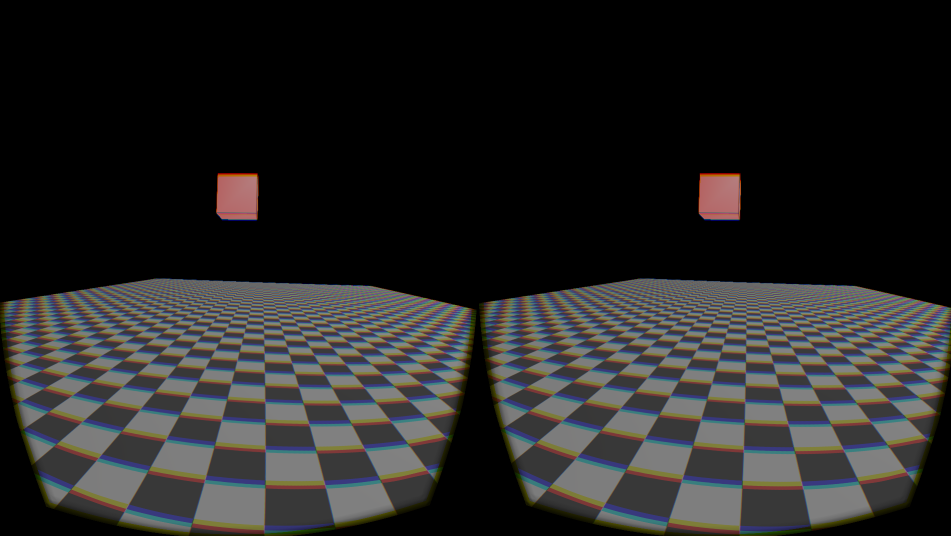
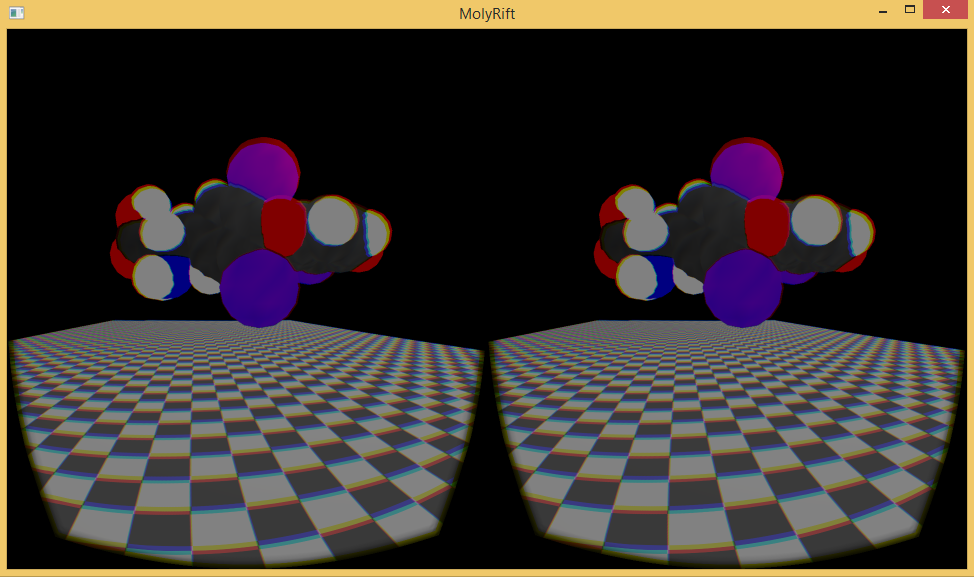
added functionality to read pdb files

diff --git a/Win32_DX11AppUtil.h b/Win32_DX11AppUtil.h
@@ -25,12 +25,19 @@ limitations under the License.
 #include <math.h>
 using namespace OVR;
 
-// for debugging
+
 #include <iostream>
 #include <windows.h>
 #include <string>
+#include <vector>
+#include <sstream>
+#include <fstream>
+#include <hash_map>
 
 //---------------------------------------------------------------------
+
+
+
 struct DirectX11
 {
     HWND                     Window;
@@ -281,7 +288,7 @@ struct Model
         float     U, V;
     };
 
-	static const int          maxSize = 20000;
+	static const int          maxSize = 100000;
     Vector3f     Pos;
     Quatf        Rot;
     Matrix4f     Mat;
@@ -382,8 +389,6 @@ struct Model
 
 		// the direction of the bond
 		Vector3f rotation = Vector3f(x1, y1, z1).Cross(Vector3f(x2, y2, z2));
-		std::string s = "\nVinkel: " + std::to_string(rotation.Angle(Vector3f(1,1,1)));
-		OutputDebugStringA(s.c_str());
 		rotation.Normalize();
 
 		for (uint16_t i = 0; i < resolution; i++){
@@ -435,48 +440,101 @@ struct Scene
     void    Add(Model * n)
     { Models[num_models++] = n; }    
 
-    Scene(int reducedVersion) : num_models(0) // Main world
-    {
-        D3D11_INPUT_ELEMENT_DESC ModelVertexDesc[] =
-        {   {"Position", 0, DXGI_FORMAT_R32G32B32_FLOAT, 0, offsetof(Model::Vertex, Pos),   D3D11_INPUT_PER_VERTEX_DATA, 0},
-            {"Color",    0, DXGI_FORMAT_R8G8B8A8_UNORM,  0, offsetof(Model::Vertex, C),     D3D11_INPUT_PER_VERTEX_DATA, 0},
-            {"TexCoord", 0, DXGI_FORMAT_R32G32_FLOAT,    0, offsetof(Model::Vertex, U),     D3D11_INPUT_PER_VERTEX_DATA, 0},    };
+	Scene(int reducedVersion) : num_models(0) // Main world
+	{
+		D3D11_INPUT_ELEMENT_DESC ModelVertexDesc[] =
+		{ { "Position", 0, DXGI_FORMAT_R32G32B32_FLOAT, 0, offsetof(Model::Vertex, Pos), D3D11_INPUT_PER_VERTEX_DATA, 0 },
+		{ "Color", 0, DXGI_FORMAT_R8G8B8A8_UNORM, 0, offsetof(Model::Vertex, C), D3D11_INPUT_PER_VERTEX_DATA, 0 },
+		{ "TexCoord", 0, DXGI_FORMAT_R32G32_FLOAT, 0, offsetof(Model::Vertex, U), D3D11_INPUT_PER_VERTEX_DATA, 0 }, };
 
-        char* VertexShaderSrc =
-            "float4x4 Proj, View;"
-            "float4 NewCol;"
-            "void main(in  float4 Position  : POSITION,    in  float4 Color : COLOR0, in  float2 TexCoord  : TEXCOORD0,"
-            "          out float4 oPosition : SV_Position, out float4 oColor: COLOR0, out float2 oTexCoord : TEXCOORD0)"
-            "{   oPosition = mul(Proj, mul(View, Position)); oTexCoord = TexCoord; oColor = Color; }";
-        char* PixelShaderSrc =
-            "Texture2D Texture   : register(t0); SamplerState Linear : register(s0); "
-            "float4 main(in float4 Position : SV_Position, in float4 Color: COLOR0, in float2 TexCoord : TEXCOORD0) : SV_Target"
-            "{   return Color * Texture.Sample(Linear, TexCoord); }";
- 
-        // Construct textures
-        static Model::Color tex_pixels[4][256*256];
-        ShaderFill * generated_texture[4];
+		char* VertexShaderSrc =
+			"float4x4 Proj, View;"
+			"float4 NewCol;"
+			"void main(in  float4 Position  : POSITION,    in  float4 Color : COLOR0, in  float2 TexCoord  : TEXCOORD0,"
+			"          out float4 oPosition : SV_Position, out float4 oColor: COLOR0, out float2 oTexCoord : TEXCOORD0)"
+			"{   oPosition = mul(Proj, mul(View, Position)); oTexCoord = TexCoord; oColor = Color; }";
+		char* PixelShaderSrc =
+			"Texture2D Texture   : register(t0); SamplerState Linear : register(s0); "
+			"float4 main(in float4 Position : SV_Position, in float4 Color: COLOR0, in float2 TexCoord : TEXCOORD0) : SV_Target"
+			"{   return Color * Texture.Sample(Linear, TexCoord); }";
 
-        for (int k=0;k<4;k++)
-        {
-            for (int j = 0; j < 256; j++)
-            for (int i = 0; i < 256; i++)
-            {
-                if (k==0) tex_pixels[0][j*256+i] = (((i >> 7) ^ (j >> 7)) & 1) ? Model::Color(180,180,180,255) : Model::Color(80,80,80,255);// floor
-                if (k==1) tex_pixels[1][j*256+i] = (((j/4 & 15) == 0) || (((i/4 & 15) == 0) && ((((i/4 & 31) == 0) ^ ((j/4 >> 4) & 1)) == 0))) ?
-                                                   Model::Color(60,60,60,255) : Model::Color(180,180,180,255); //wall
-                if (k==2) tex_pixels[2][j*256+i] = (i/4 == 0 || j/4 == 0) ? Model::Color(80,80,80,255) : Model::Color(180,180,180,255);// ceiling
-                if (k==3) tex_pixels[3][j*256+i] = Model::Color(128,128,128,255);// blank
-            }
-            ImageBuffer * t      = new ImageBuffer(false,false,Sizei(256,256),8,(unsigned char *)tex_pixels[k]);
-            generated_texture[k] = new ShaderFill(ModelVertexDesc,3,VertexShaderSrc,PixelShaderSrc,t);
-        }
-         //Construct Molecule
-		Model * m = new Model(Vector3f(0, 0, 0), generated_texture[3]); 
-		m->AddSolidColorSphere(3.0f, 3.0f, 0.5f, 0.5f, Model::Color(250, 64, 64)); //Atoms
-		m->AddSolidColorSphere(5.0f, 5.0f, 0.5f, 1.0f, Model::Color(0, 64, 64)); 
-		m->AddSolidColorSphere(6.0f, 4.0f, 0.5f, 0.3f, Model::Color(0, 145, 64)); 
-		m->AllocateBuffers(); Add(m);
+		// Construct textures
+		static Model::Color tex_pixels[4][256 * 256];
+		ShaderFill * generated_texture[4];
+
+		for (int k = 0; k < 4; k++)
+		{
+			for (int j = 0; j < 256; j++)
+				for (int i = 0; i < 256; i++)
+				{
+					if (k == 0) tex_pixels[0][j * 256 + i] = (((i >> 7) ^ (j >> 7)) & 1) ? Model::Color(180, 180, 180, 255) : Model::Color(80, 80, 80, 255);// floor
+					if (k == 1) tex_pixels[1][j * 256 + i] = (((j / 4 & 15) == 0) || (((i / 4 & 15) == 0) && ((((i / 4 & 31) == 0) ^ ((j / 4 >> 4) & 1)) == 0))) ?
+						Model::Color(60, 60, 60, 255) : Model::Color(180, 180, 180, 255); //wall
+					if (k == 2) tex_pixels[2][j * 256 + i] = (i / 4 == 0 || j / 4 == 0) ? Model::Color(80, 80, 80, 255) : Model::Color(180, 180, 180, 255);// ceiling
+					if (k == 3) tex_pixels[3][j * 256 + i] = Model::Color(128, 128, 128, 255);// blank
+				}
+			ImageBuffer * t = new ImageBuffer(false, false, Sizei(256, 256), 8, (unsigned char *)tex_pixels[k]);
+			generated_texture[k] = new ShaderFill(ModelVertexDesc, 3, VertexShaderSrc, PixelShaderSrc, t);
+		}
+
+		
+		std::hash_map<std::string, Model::Color> atomColor; //Dont' max out colors since we use a variation formula later to give them depth
+		atomColor["C"] = Model::Color(30, 30, 30, 255); atomColor["H"] = Model::Color(230, 230, 230, 255); atomColor["O"] = Model::Color(230, 0, 0, 255); atomColor["N"] = Model::Color(0, 0, 230, 255);
+		atomColor["I"] = Model::Color(60, 0, 180, 255);
+
+		std::hash_map<std::string, float> radius;
+		radius["H"] = 1.2f; radius["LI"] = 1.82f; radius["NA"] = 2.27f; radius["K"] = 2.75f; radius["C"] = 1.7f; radius["N"] = 1.55f; radius["O"] = 1.52f;
+		radius["F"] = 1.47f; radius["P"] = 1.80f; radius["S"] = 1.80f; radius["CL"] = 1.75f; radius["BR"] = 1.85f; radius["SE"] = 1.90f;
+		radius["ZN"] = 1.39f; radius["CU"] = 1.4f; radius["NI"] = 1.63f; radius["HE"] = 1.4f; radius["NE"] = 1.54f; radius["MG"] = 1.73f;
+		radius["SI"] = 2.1f; radius["AR"] = 1.88f; radius["GA"] = 1.87f; radius["AS"] = 1.85f; radius["KR"] = 2.02f; radius["PD"] = 1.63f; radius["FE"] = 1.94f;
+		radius["AG"] = 1.72f; radius["CD"] = 1.58f; radius["IN"] = 1.93f; radius["SN"] = 2.17f; radius["TE"] = 2.06f; radius["I"] = 1.98f; radius["XE"] = 2.16f;
+		radius["PT"] = 1.75f; radius["AU"] = 1.66f; radius["HG"] = 1.55f; radius["TL"] = 1.96f; radius["PB"] = 2.02f; radius["U"] = 1.86f;
+
+		//Construct an empty model for the molecule
+		Model * m = new Model(Vector3f(0, 0, 0), generated_texture[3]);
+
+		//Read molecule from file
+		std::ifstream file("MolTest.txt");
+		std::string line;
+		while (std::getline(file, line)){
+			std::vector<std::string> vector;
+			std::stringstream ss(line);
+			std::string buffer;
+			
+			while (ss >> buffer){
+				vector.push_back(buffer);
+			}
+
+			if (vector[0].compare("HETATM")==0){ // we found a atom
+				std::string atomType = vector[2];
+
+				Model::Color c;
+				if (atomColor.find(atomType) != atomColor.end()){ // we found a radius
+					c = atomColor[atomType];
+
+				}
+				else{
+					c = Model::Color(250, 64, 64); //default color
+				}
+
+				float r;
+				if (radius.find(atomType) != radius.end()){ // we found a radius
+					r = radius[atomType];
+				}
+				else{
+					r = 1.5f; //default value
+				}
+
+				m->AddSolidColorSphere(std::stof(vector[3]), std::stof(vector[4]), std::stof(vector[5]), r, c); //add atom
+			}
+		}
+
+
+       
+		//m->AddSolidColorSphere(3.0f, 3.0f, 0.5f, 0.5f, Model::Color(250, 64, 64)); //Atoms
+		//m->AddSolidColorSphere(5.0f, 5.0f, 0.5f, 1.0f, Model::Color(0, 64, 64)); 
+		//m->AddSolidColorSphere(6.0f, 4.0f, 0.5f, 0.3f, Model::Color(0, 145, 64)); 
+		m->AllocateBuffers(); Add(m); // add the molecule 
  
 		//Construc Floor
         m = new Model(Vector3f(0,0,0),generated_texture[0]);  
